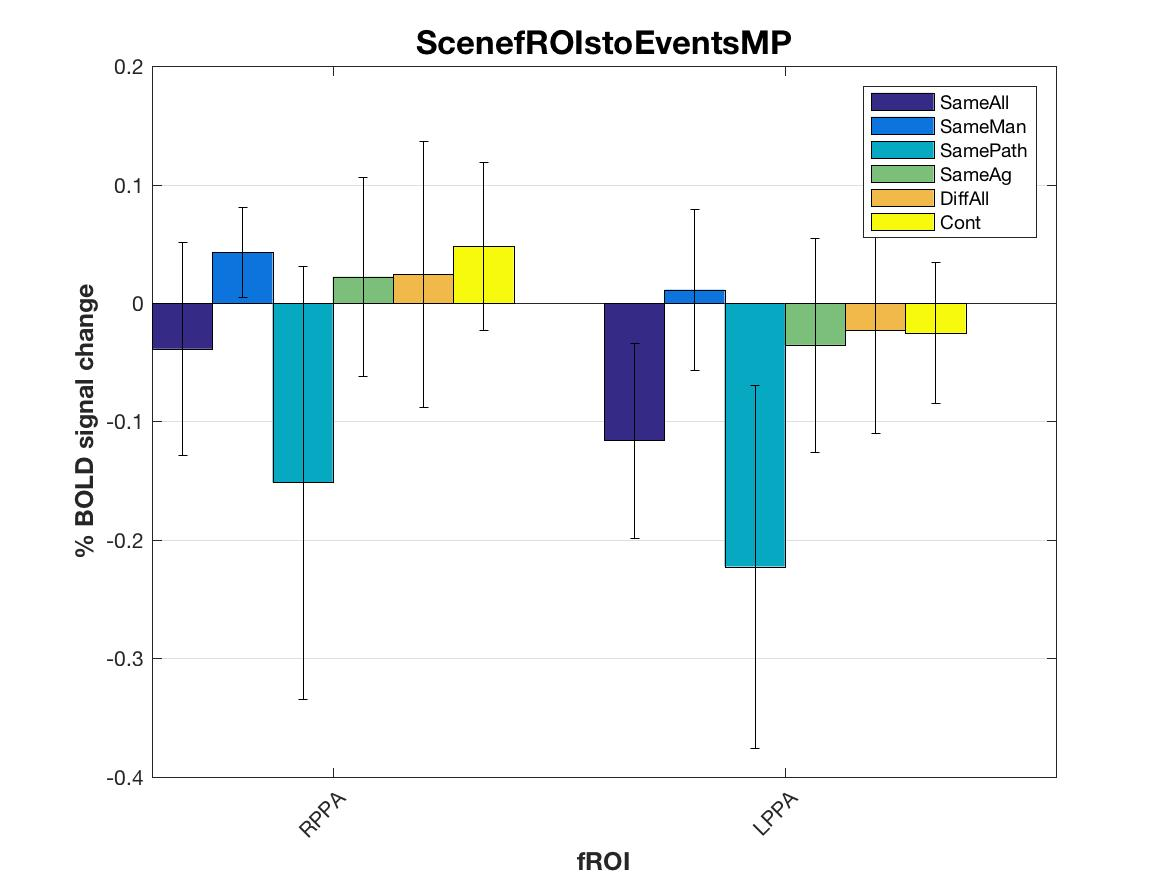
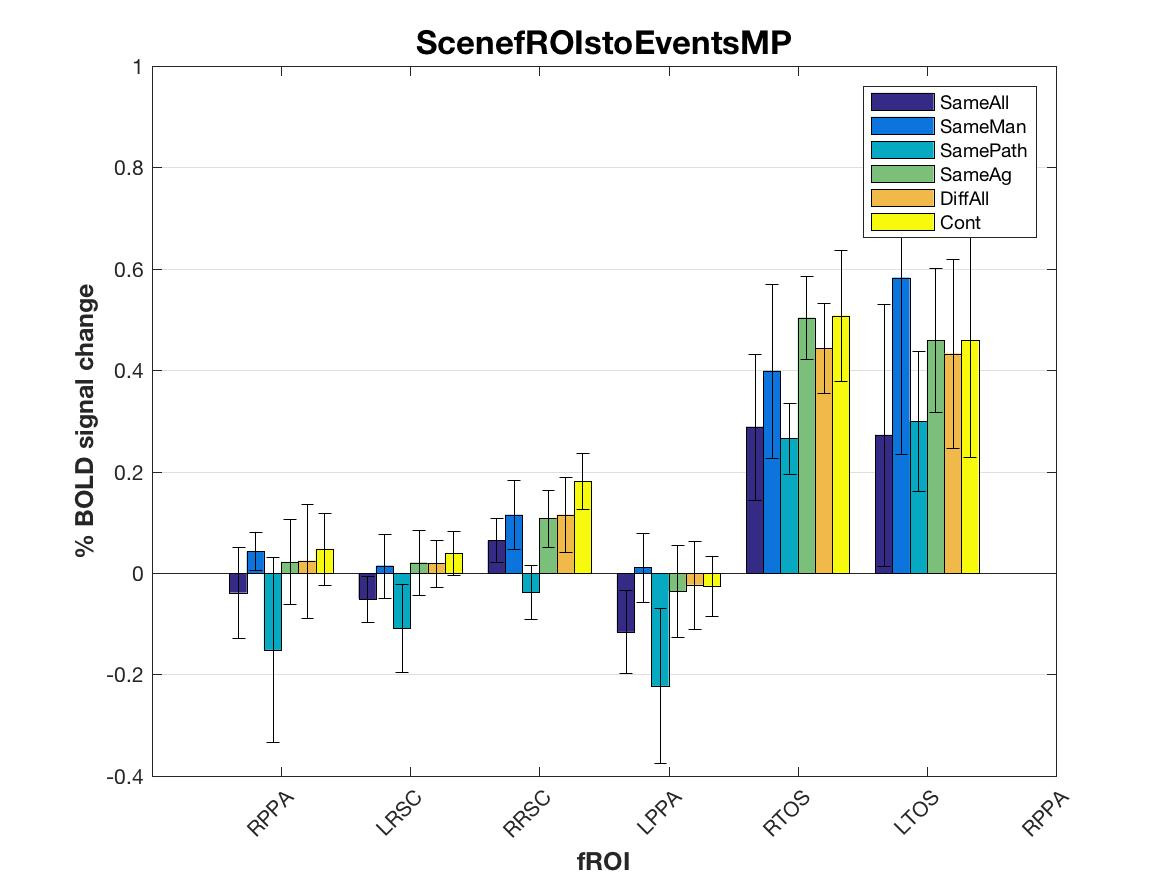
a few more graphs

diff --git a/!GRAPHS/Dyloc_secondLevel_toEventsMP20160107.m b/!GRAPHS/Dyloc_secondLevel_toEventsMP20160107.m
@@ -42,7 +42,7 @@ num_rois = 16; %NOTE: this should (I think) be the # of ROIs in the csv, even if
 roi_names = {'','RPPA','LRSC','RRSC','LPPA','RTOS','LTOS',...
     '','','','','','','','',''}; %I don't know the names of all the Dyloc parcels!!
 
-roi_pres_order = [2,5]'; % the order we want to display things in. DOESN"T NEED TO CONTAIN ALL THE ROIS THAT EXIST!
+roi_pres_order = [2:7]'; % the order we want to display things in. DOESN"T NEED TO CONTAIN ALL THE ROIS THAT EXIST!
 
 
 
